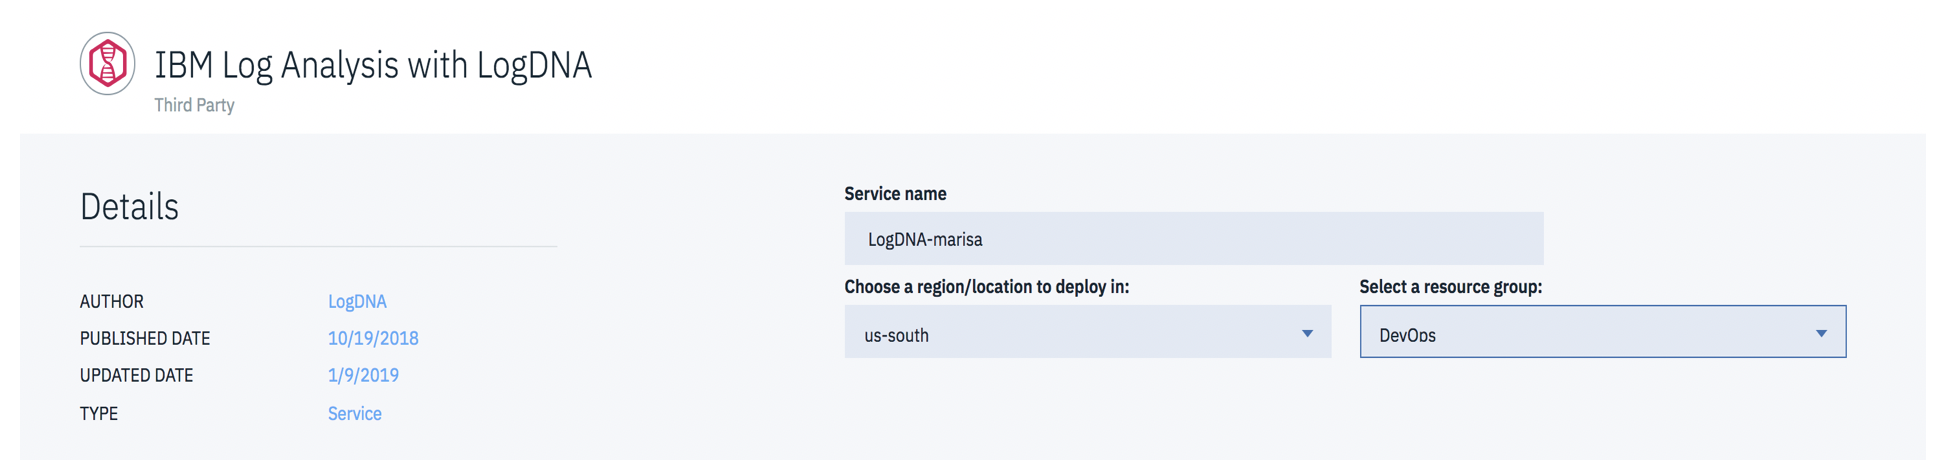
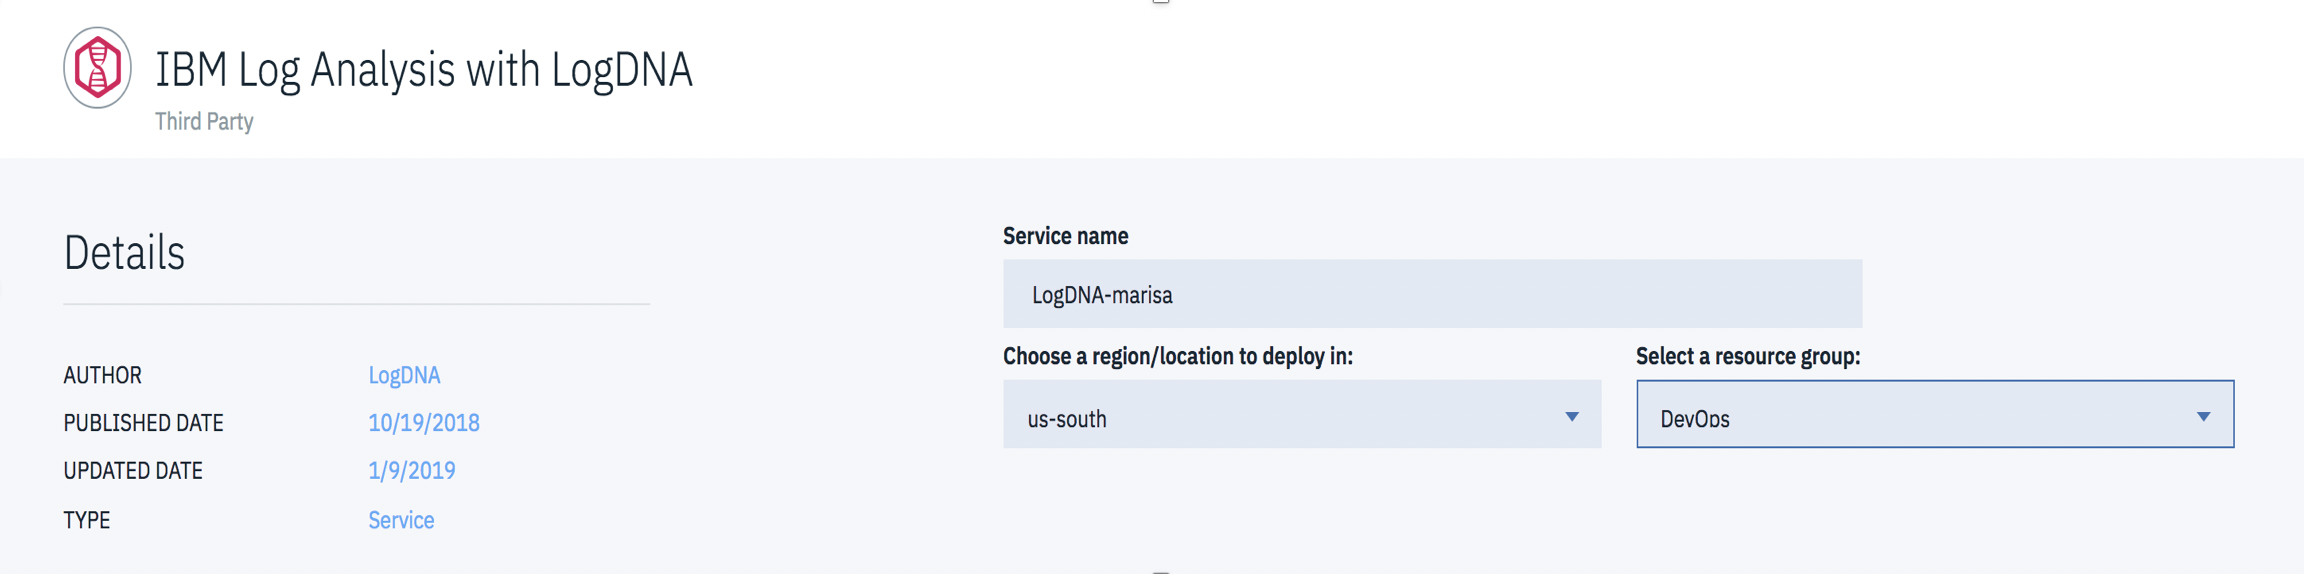
adding logging content

diff --git a/3_logging/provision_an_instance_of_ibm_log_analysis_with_log/step_2_provisioning_an_instance_from_the_observabi.md b/3_logging/provision_an_instance_of_ibm_log_analysis_with_log/step_2_provisioning_an_instance_from_the_observabi.md
@@ -22,7 +22,7 @@ To provision an instance of IBM Log Analysis with LogDNA by using the IBM Cloud 
 
 5.  Enter a name for the service instance. For example, _logdna-marisa_
 
-    ![image10](../images/logdna_img10.png =250x)
+    ![image10](../images/logdna_img10.png)
 
 6.  Select the **DevOps** resource group.
 
